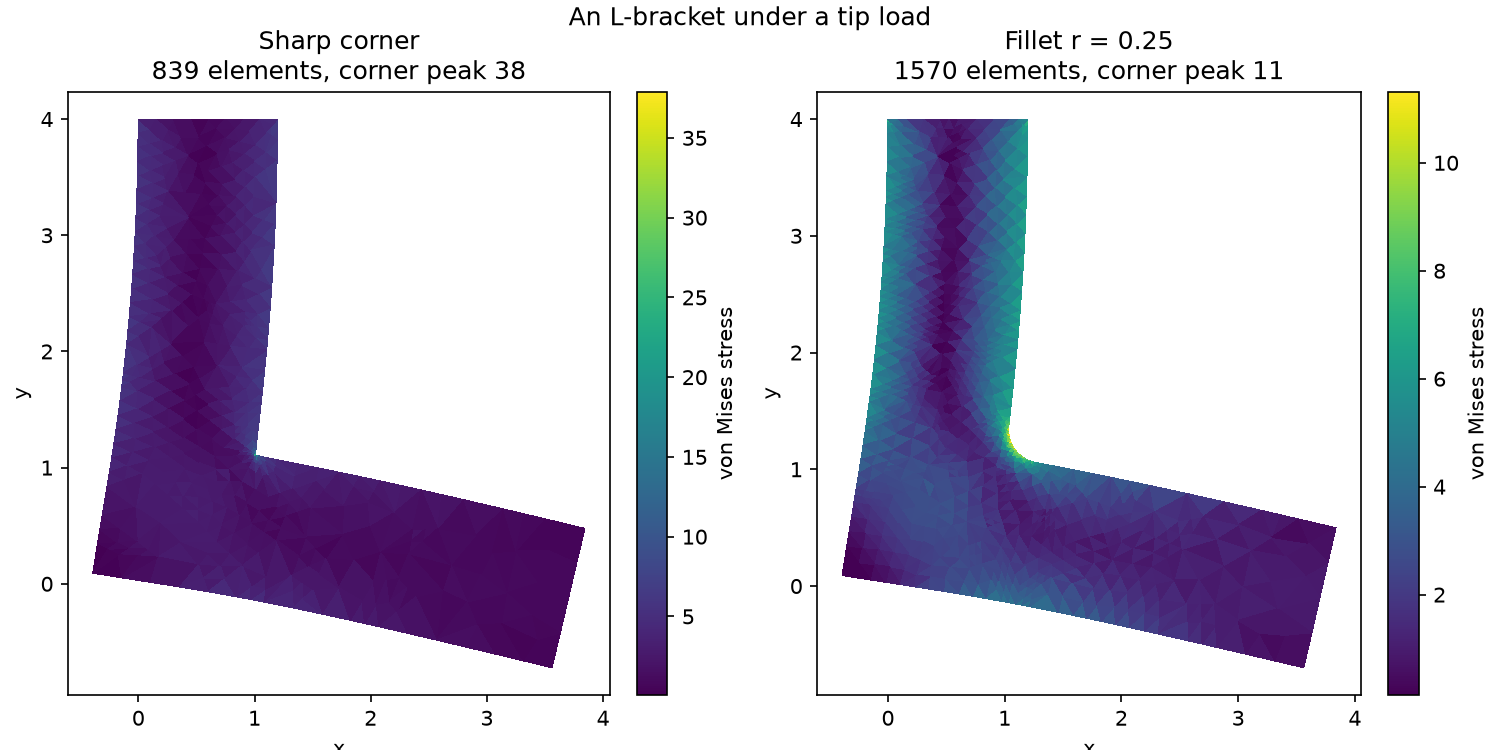
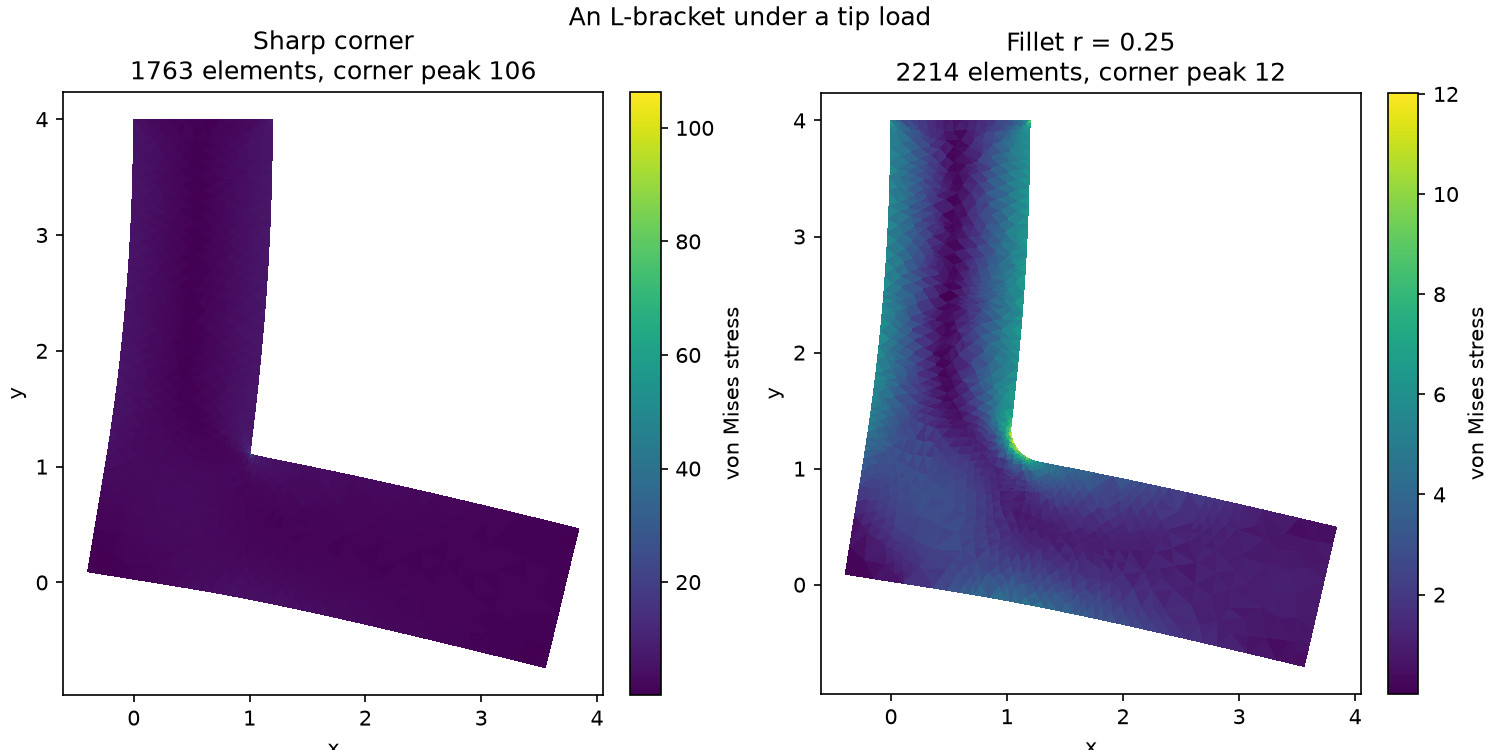
Enlarge and center README figures; drop robin demo; denser bracket
- Figures: bump the standard size and center every figure. Compact figures
  use height="400"; wide figures (aspect >= ~1.9) use width="780" so they fill
  the column without distorting (a fixed height on a too-wide figure gets
  width-capped by GitHub and squished). Side-by-side pairs use height 280
  (bracket) and 340 (heat) so both fit across the column. Everything wrapped
  in <p align="center">.
- Remove the robin demo (demo_robin_bc and its registration); the Robin
  boundary condition is already shown by the heatsink. Core Robin BC tests and
  functionality are untouched.
- L-bracket: denser meshes (max_area_fraction 0.006 -> 0.003, n_rounds
  14 -> 18), so the sharp corner now refines to ~1763 elements and the
  singularity sweep runs further out. Re-rendered bracket.png and
  bracket_singularity.png.

diff --git a/examples/solver_demos.py b/examples/solver_demos.py
@@ -650,7 +650,7 @@ def demo_stress_concentration(traction=1.0, length=6.0, height=3.0, radius=0.3,
     )
 
 def demo_bracket(arm=4.0, width=1.2, fillet_radius=0.25, traction=0.4, E=200.0, nu=0.3,
-                 min_angle=28, max_area_fraction=0.006, n_rounds=14, refine_fraction=0.9):
+                 min_angle=28, max_area_fraction=0.003, n_rounds=18, refine_fraction=0.9):
     """Load an L-bracket and read the stress at its inner corner: a sharp re-entrant
     corner is a stress singularity whose peak climbs without bound as the mesh refines,
     while a fillet gives a finite, converged value. This is why real parts round their
@@ -759,57 +759,6 @@ def demo_bracket(arm=4.0, width=1.2, fillet_radius=0.25, traction=0.4, E=200.0, 
              f'over {round_sizes[-1]} elements, converged\n'
              f'reduction from the fillet       {reduction:.0f}%'))
 
-
-def demo_robin_bc(mesh):
-    """Cool a heated plate through a convective boundary, sweeping the Robin coefficient."""
-    # du/dn + kappa*(u - u_ambient) = 0: heat generated inside escapes through a boundary
-    # film, and kappa says how freely. The other two condition types are its limits:
-    # kappa -> 0 is insulated (Neumann) and kappa -> infinity pins u to ambient
-    # (Dirichlet), so the sweep ends on a Dirichlet solve the last Robin panel should
-    # already look like.
-    u_ambient = 300.0
-    equation = Poisson(source=50.0)
-    kappas = [0.5, 5.0, 500.0]
-
-    # The sweep varies kappa, not where it applies, so one conditions figure covers all
-    # three: the whole boundary is a film, and each result panel's title says how free
-    # a one.
-    first = BoundaryConditions()
-    first.add_robin(everywhere(), kappa=kappas[0], g=kappas[0]*u_ambient)
-    conditions = Plotter()
-    conditions.plot(mesh, mode='bc', bc=first)
-
-    solves = []
-    for kappa in kappas:
-        bc = BoundaryConditions()
-        bc.add_robin(everywhere(), kappa=kappa, g=kappa*u_ambient)
-        solves.append((f'kappa={kappa:g}', Solver(mesh, equation, bc).solve().u))
-
-    bc = BoundaryConditions()
-    bc.add(BCType.DIRICHLET, everywhere(), u_ambient)
-    solves.append(('Dirichlet limit', Solver(mesh, equation, bc).solve().u))
-
-    # One scale across the sweep, which is what the demo is claiming with. Renormalized
-    # per panel the four look alike and the reader has to compare colorbar ticks; shared,
-    # the plate visibly cools towards ambient as kappa rises, and the last two are the
-    # same picture, which is the claim that the Robin limit is the Dirichlet solve.
-    span = (min(float(u.min()) for _, u in solves), max(float(u.max()) for _, u in solves))
-    plotter = Plotter(1, len(solves), title='Robin BCs: convective cooling')
-    for i, (name, u) in enumerate(solves):
-        plotter.plot(mesh, u, mode='colored', idx=(0, i), label='temperature',
-                     title=f'{name}\n{u.min():.1f} - {u.max():.1f}', clim=span)
-    return DemoResult([
-        Figure(plotter,
-               'Convective cooling at three film coefficients, all four on one colour '
-               'scale, so the plate is seen to cool towards ambient as the film opens '
-               'up. The last Robin panel and the Dirichlet solve beside it are the same '
-               'picture and agree to the digit: the limit, computed both ways.',
-               'sweep'),
-        Figure(conditions,
-               'Robin the whole way round, at the first of the three coefficients. Only '
-               'kappa changes across the sweep; where the condition applies does not.',
-               'conditions', setup=True),
-    ])
 
 def demo_elasticity_models(mesh, stretch=0.5):
     """Stretch one clamped block three ways: a linear solve, the same physics by energy
@@ -1788,7 +1737,6 @@ DEMOS = [
          smoke_kwargs={'max_area_fraction': 0.03, 'steps': 4, 'fin_lengths': (0.8, 2.0)}),
     Demo('heat_3d', demo_heat_3d, section=SOLVING, smoke_kwargs={'steps': 3, 'n': 5}),
     Demo('wave', demo_wave_equation, section=SOLVING, domain=square),
-    Demo('robin', demo_robin_bc, section=SOLVING, domain=partial(square, 80)),
     # Builds its own airfoil-in-a-channel from the NACA formula (the meshing is part of
     # what it shows), so it takes no domain. The smoke run loosens the size cap and
     # coarsens the airfoil, which together are all of its cost.

diff --git a/examples/gallery.py b/examples/gallery.py
@@ -171,7 +171,7 @@ a { color: inherit; }
 .card { border: 1px solid var(--line); border-radius: 10px; overflow: hidden;
         text-decoration: none; display: flex; flex-direction: column; }
 /* `contain`, not `cover`: these figures are wide, and cropping one to a 4:3 tile
-   showed a fifth of a single panel; `robin` is four panels across 2000x500. */
+   showed a fifth of a single panel; some are several panels across a wide strip. */
 .card img, .card .thumb-text, .card .thumb-note, .card .thumb-empty {
   width: 100%; aspect-ratio: 4/3; background: #fff; display: block; }
 .card img { object-fit: contain; }

diff --git a/tests/test_plot_bc.py b/tests/test_plot_bc.py
@@ -120,7 +120,8 @@ def test_a_fully_constrained_boundary_claims_nothing_is_natural(mesh):
 
 
 def test_repeated_conditions_of_one_kind_get_one_legend_entry(mesh):
-    """`robin` sweeps the same kind of condition over several regions."""
+    """A sweep repeats one kind of condition over several regions; the legend folds them
+    into a single entry."""
     bc = BoundaryConditions()
     for side in (0.0, 1.0):
         bc.add(BCType.DIRICHLET, on_plane(0, side), 0.0)

diff --git a/README.md b/README.md
@@ -41,7 +41,7 @@ read smooth, not as a resolution ceiling; the inset zooms into California's mesh
 resolves the traced coastline and its offshore islands, and adaptive refinement drives it
 finer still.
 
-<img src="images/outline_to_mesh.png" height="250" alt="Four outlines meshed and Poisson-solved: California with a mesh zoom inset, a cloud, a gear, and a star">
+<p align="center"><img src="images/outline_to_mesh.png" height="400" alt="Four outlines meshed and Poisson-solved: California with a mesh zoom inset, a cloud, a gear, and a star"></p>
 
 Boundary conditions are placed by *position*, not by vertex index, so the same
 specification lands on the same physical patch on any triangulation of the domain. Below,
@@ -51,7 +51,7 @@ each, and the two deflect the same. That is what lets a condition be written onc
 survive whatever remeshing happens after, including adaptive refinement rebuilding the
 mesh several times over.
 
-<img src="images/regions.png" height="250" alt="One cantilever solved on a structured grid and an unstructured mesh of the same beam">
+<p align="center"><img src="images/regions.png" width="780" alt="One cantilever solved on a structured grid and an unstructured mesh of the same beam"></p>
 
 ## Solving PDEs
 
@@ -72,7 +72,7 @@ zero-flux condition of the weak form. Say nothing on its surface and it becomes 
 streamline the flow parts around. The equipotentials crowd over the upper surface, where
 the flow speeds up.
 
-<img src="images/potential_flow.png" width="740" alt="Potential flow: equipotentials and flow speed over a NACA airfoil">
+<p align="center"><img src="images/potential_flow.png" width="780" alt="Potential flow: equipotentials and flow speed over a NACA airfoil"></p>
 
 ### Heat equation
 
@@ -92,7 +92,7 @@ textbook $\tanh(mL)/(mL)$ law, falling as fins lengthen because a long fin runs 
 toward the tip, so these fins sit near 40%. The fins trade material for surface area,
 which is why a heatsink is finned rather than solid.
 
-<img src="images/heatsink_comparison.png" height="250" alt="Heatsink vs a solid block: fixed power (the block overheats) and fixed base temperature (the fins shed more)"> <img src="images/heatsink_efficiency.png" height="250" alt="Fin efficiency against the tanh(mL)/(mL) beam-theory law">
+<p align="center"><img src="images/heatsink_comparison.png" height="340" alt="Heatsink vs a solid block: fixed power (the block overheats) and fixed base temperature (the fins shed more)"> <img src="images/heatsink_efficiency.png" height="340" alt="Fin efficiency against the tanh(mL)/(mL) beam-theory law"></p>
 
 ### Wave equation
 
@@ -101,7 +101,7 @@ time, so it is integrated with Newmark's average-acceleration method rather than
 theta-method used for the first-order systems. A pulse released from rest spreads out,
 reflects off the free boundary the same way up, and interferes with itself.
 
-<img src="images/wave.png" height="250" alt="Wave reflection and interference, second half of the run">
+<p align="center"><img src="images/wave.png" height="400" alt="Wave reflection and interference, second half of the run"></p>
 
 ## Solids & structures
 
@@ -116,7 +116,7 @@ cantilever under the same clamp-and-load, solved with an AMG-preconditioned
 conjugate-gradient backend where a direct factorization's fill-in starts to hurt, and
 drawn as its boundary surface.
 
-<img src="images/linear_elastic.png" height="250" alt="Linear elasticity: a 2D cantilever and a 3D tetrahedral one under the same clamp-and-load">
+<p align="center"><img src="images/linear_elastic.png" width="780" alt="Linear elasticity: a 2D cantilever and a 3D tetrahedral one under the same clamp-and-load"></p>
 
 One solve, one stress tensor, several rotation-invariant questions: von Mises,
 mean normal stress, the Tresca measure, and the largest tensile principal value are
@@ -134,7 +134,7 @@ the sharp corner climbs without bound (its "stress" is a property of the mesh, n
 part); the fillet converges. This is the whole reason real parts round their inner
 corners.
 
-<img src="images/bracket.png" height="250" alt="L-bracket von Mises stress: sharp corner vs filleted"> <img src="images/bracket_singularity.png" height="250" alt="Corner stress peak vs mesh refinement: sharp climbs, fillet converges">
+<p align="center"><img src="images/bracket.png" height="280" alt="L-bracket von Mises stress: sharp corner vs filleted"> <img src="images/bracket_singularity.png" height="280" alt="Corner stress peak vs mesh refinement: sharp climbs, fillet converges"></p>
 
 ### Three ways to solve the same stretch
 
@@ -143,7 +143,7 @@ physics reached by Newton on the elastic energy that system is the stationary po
 and a finite-strain (Green-Lagrange) solve. The first two agree in displacement to
 machine precision; the third stiffens as the stretch grows, which small strain cannot.
 
-<img src="images/elasticity_models.png" height="250" alt="Linear, energy-minimisation, and finite-strain solves of one stretch">
+<p align="center"><img src="images/elasticity_models.png" width="780" alt="Linear, energy-minimisation, and finite-strain solves of one stretch"></p>
 
 ### From an outline to a stress concentration
 
@@ -154,7 +154,7 @@ The stress crowds into the material either side of the hole and relaxes to the a
 value within about a diameter, peaking just above the classic Kirsch factor of 3 that
 holds for a hole in an infinite plate (a finite plate reads a little higher).
 
-<img src="images/stress_concentration.png" width="740" alt="Refined mesh with conditions, the stress field, and the peak against the Kirsch factor">
+<p align="center"><img src="images/stress_concentration.png" width="780" alt="Refined mesh with conditions, the stress field, and the peak against the Kirsch factor"></p>
 
 ### Buckling analysis
 
@@ -166,14 +166,14 @@ generalized eigenproblem $K \phi = -\lambda K_g \phi$ gives the critical load fa
 and mode shapes. The column is meshed with P2 elements, which do not lock in bending
 the way a constant-strain triangle does.
 
-<img src="images/buckling.png" height="250" alt="Buckling modes of a pinned-pinned column">
+<p align="center"><img src="images/buckling.png" height="400" alt="Buckling modes of a pinned-pinned column"></p>
 
 The demo checks itself against Euler's column theory three ways: the modes rise as
 $n^2$, the four classic end conditions recover their effective-length factors ($K = 2$
 cantilever, $1$ pinned-pinned, $0.5$ fixed-fixed, $\approx 0.7$ fixed-pinned) to within
 a couple of percent, and the critical load falls as $1/L^2$.
 
-<img src="images/buckling_laws.png" height="250" alt="Buckling validated against Euler's 1/L^2 law and effective-length factors">
+<p align="center"><img src="images/buckling_laws.png" width="780" alt="Buckling validated against Euler's 1/L^2 law and effective-length factors"></p>
 
 ### Modal (free-vibration) analysis
 
@@ -184,14 +184,14 @@ frequencies. A steel tuning fork is meshed from its own outline and held at the 
 base. Its low modes come in pairs; the one whose tines swing oppositely leaves the stem
 still and rings, which is "the voice".
 
-<img src="images/modal.png" height="250" alt="A tuning fork's natural modes and their pitches">
+<p align="center"><img src="images/modal.png" width="780" alt="A tuning fork's natural modes and their pitches"></p>
 
 With real SI steel properties the frequencies come out in Hz: the voice lands near
 concert A, and sweeping the tine length tracks the Euler-Bernoulli $1/L^2$ tuning law,
 sitting a little below the ideal-tine line because a real fork's base yields where beam
 theory assumes a rigid clamp.
 
-<img src="images/modal_law.png" height="250" alt="Modal analysis against Euler-Bernoulli beam theory">
+<p align="center"><img src="images/modal_law.png" width="780" alt="Modal analysis against Euler-Bernoulli beam theory"></p>
 
 ### Topology optimization
 
@@ -205,7 +205,7 @@ the optimized truss comes out only about 1.6x as compliant as the fully solid bl
 half the material. What it removed was near the neutral axis, where the material was
 barely resisting the bending.
 
-<img src="images/topology_optimization.png" height="250" alt="Solid beam vs the optimized half-material arch, compared by compliance">
+<p align="center"><img src="images/topology_optimization.png" height="400" alt="Solid beam vs the optimized half-material arch, compared by compliance"></p>
 
 The [gallery's topology page](https://janetyq.github.io/Finite-Element-Solver/topology_optimization.html)
 plays the SIMP iterations frame by frame, from an even grey to the black-and-white truss.
@@ -220,7 +220,7 @@ $h$, quarter the error) for a scalar unknown and a coupled vector one alike; in 
 order is the theta-method's to choose, first at backward Euler and second at
 Crank-Nicolson. Every rate here also runs as an assertion in the test suite.
 
-<img src="images/convergence.png" height="250" alt="Convergence rates in space and time">
+<p align="center"><img src="images/convergence.png" width="780" alt="Convergence rates in space and time"></p>
 
 ### Higher-order elements
 
@@ -228,7 +228,7 @@ P2 (quadratic) triangles carry edge-midpoint DOFs that let the solution curve wi
 element. On the same meshes they are third order in $L^2$ where P1 is second, and
 reach a given accuracy with fewer degrees of freedom.
 
-<img src="images/higher_order.png" height="250" alt="P1 vs P2 accuracy and cost">
+<p align="center"><img src="images/higher_order.png" width="780" alt="P1 vs P2 accuracy and cost"></p>
 
 Curved (isoparametric) boundary elements take this a step further. On a boundary that
 carries an analytic curve (a `Circle` or `Arc`), an `IsoparametricTriangleElement`
@@ -251,7 +251,7 @@ dimension-general). Below, refinement driven by the residual estimator on a peak
 Poisson source concentrates the mesh where the solution is hardest to approximate, and
 the estimated error drops sharply.
 
-<img src="images/refinement.png" height="250" alt="Adaptive refinement on a peaked source">
+<p align="center"><img src="images/refinement.png" width="780" alt="Adaptive refinement on a peaked source"></p>
 
 ### Representation error
 
@@ -261,7 +261,7 @@ P1 mesh, the slow inner rings come through but the fast outer ones break up into
 triangulation. That representation error is the floor every solver on this mesh starts
 from, and refining the mesh is what lowers it.
 
-<img src="images/l2_projection.png" height="250" alt="The target sin(40 r^2) beside its L2 projection onto a coarse P1 mesh">
+<p align="center"><img src="images/l2_projection.png" width="780" alt="The target sin(40 r^2) beside its L2 projection onto a coarse P1 mesh"></p>
 
 ---
 
